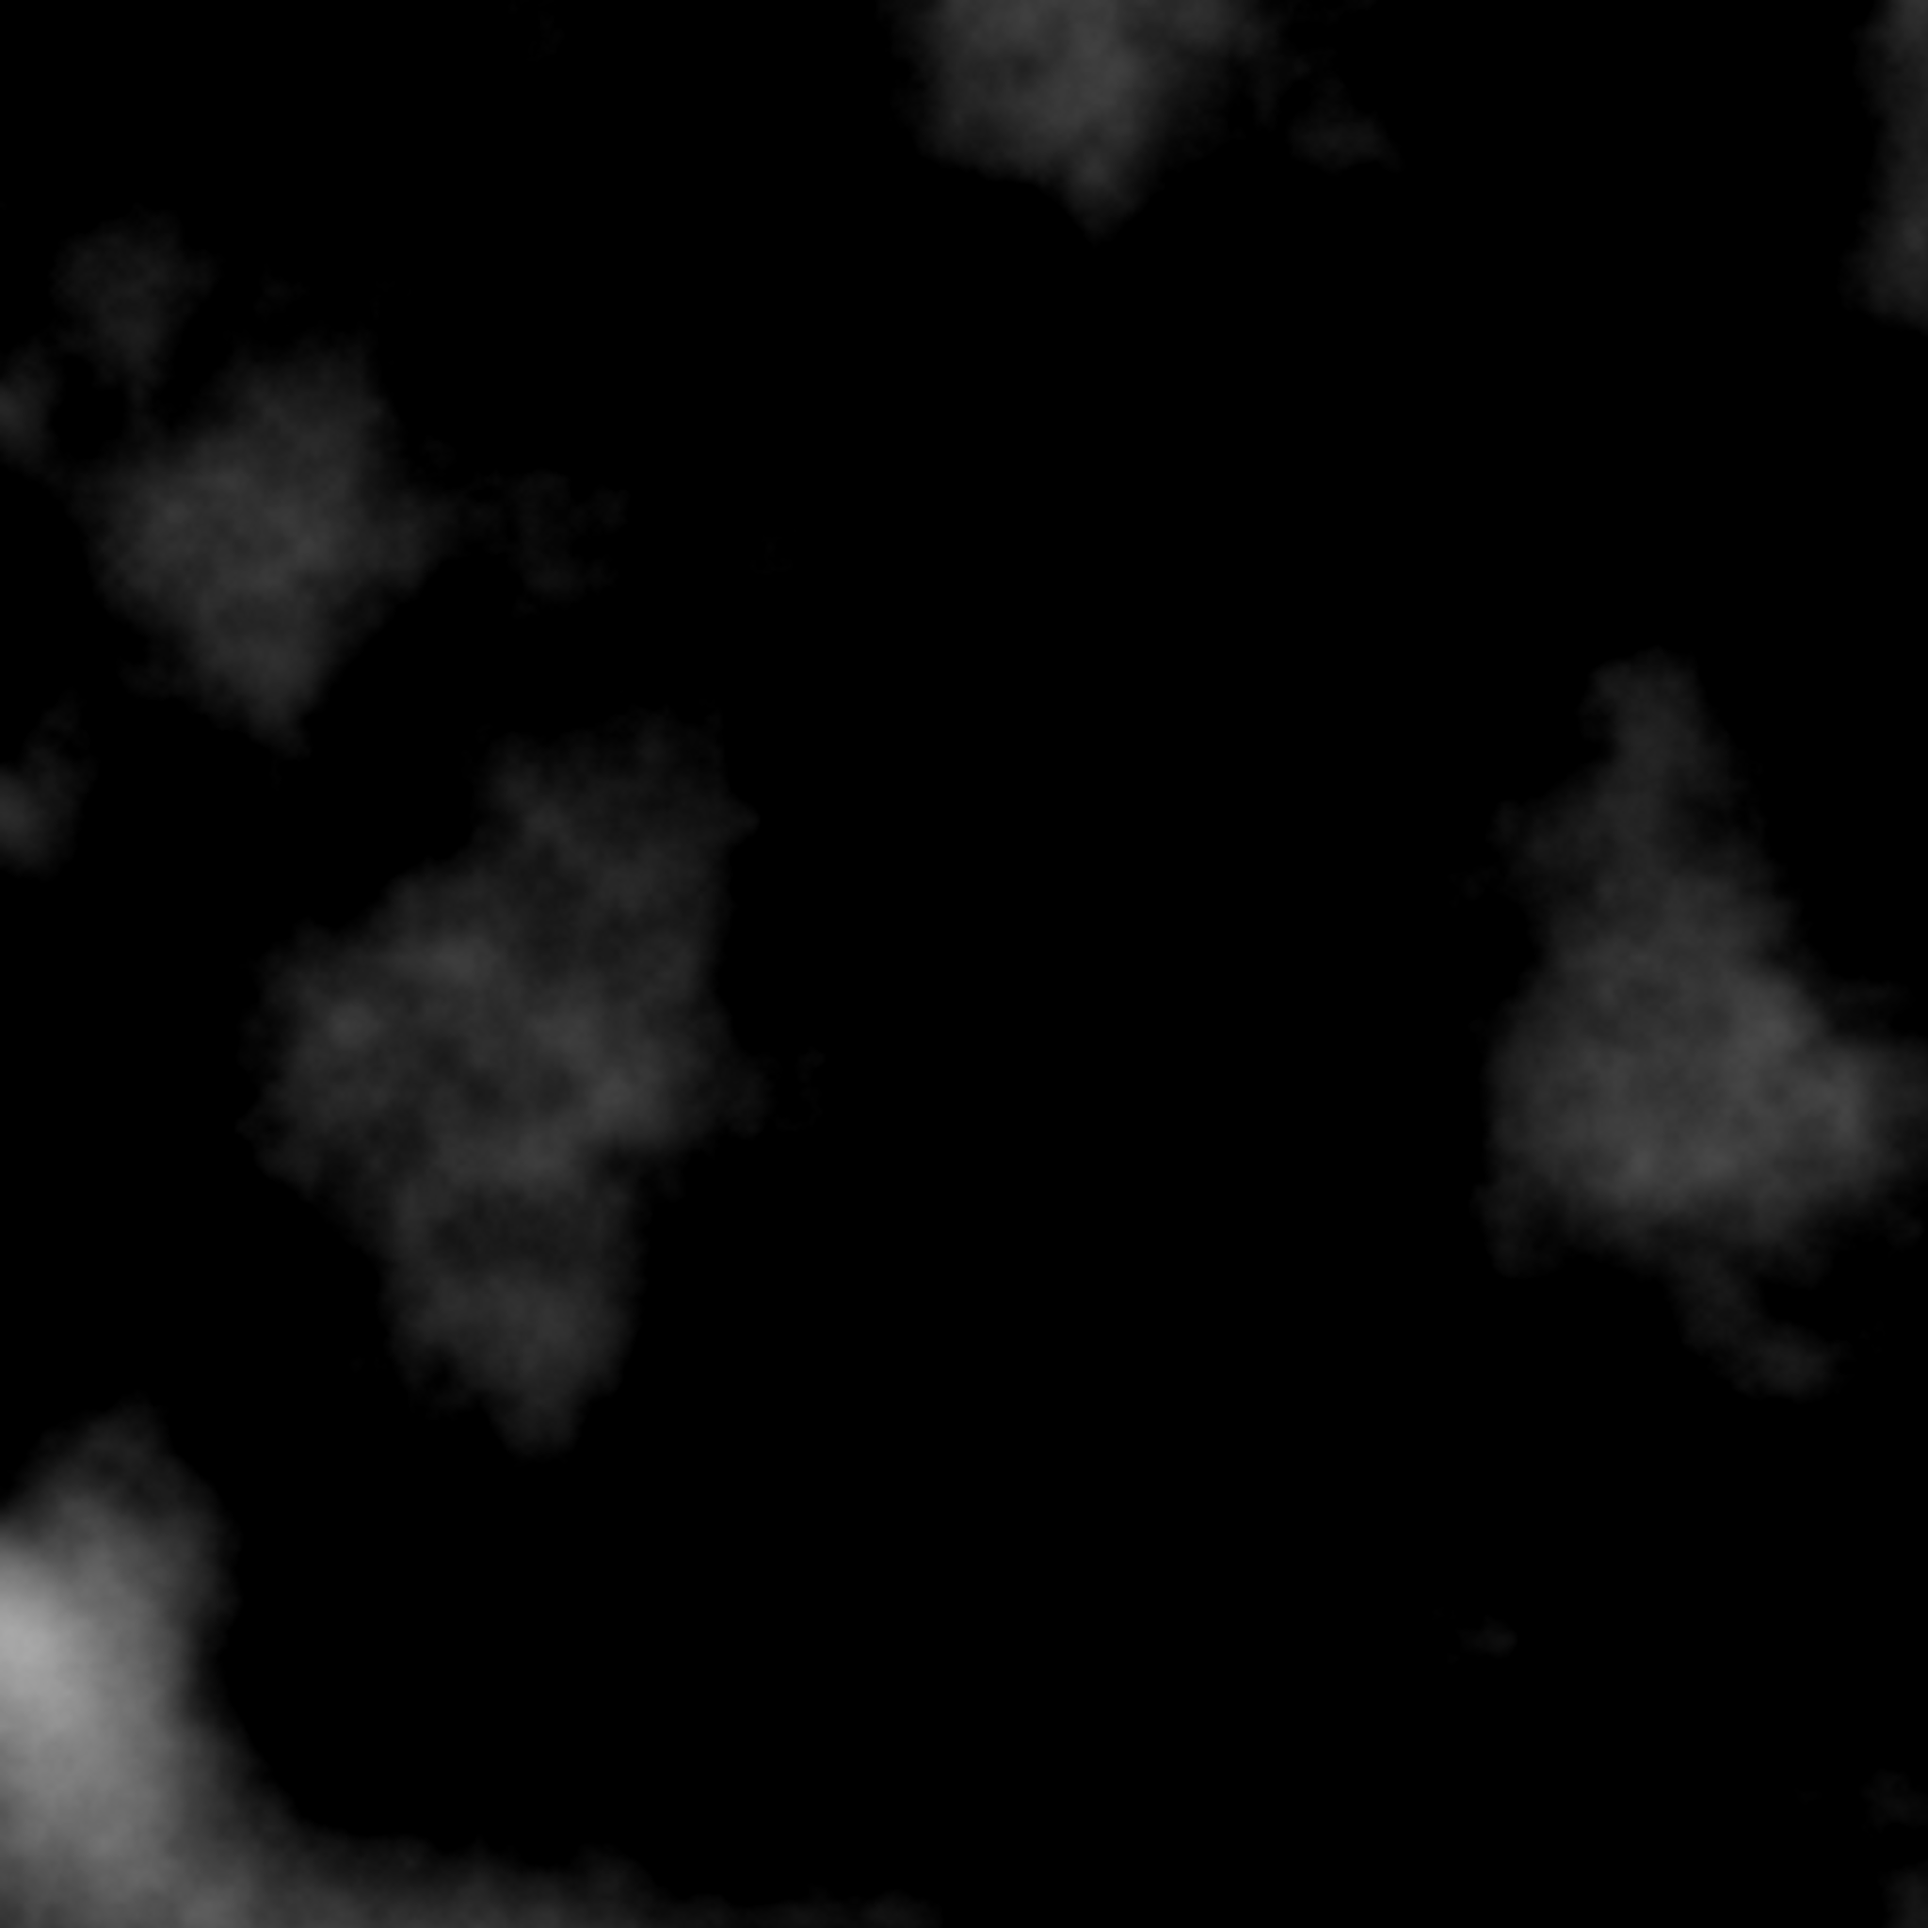
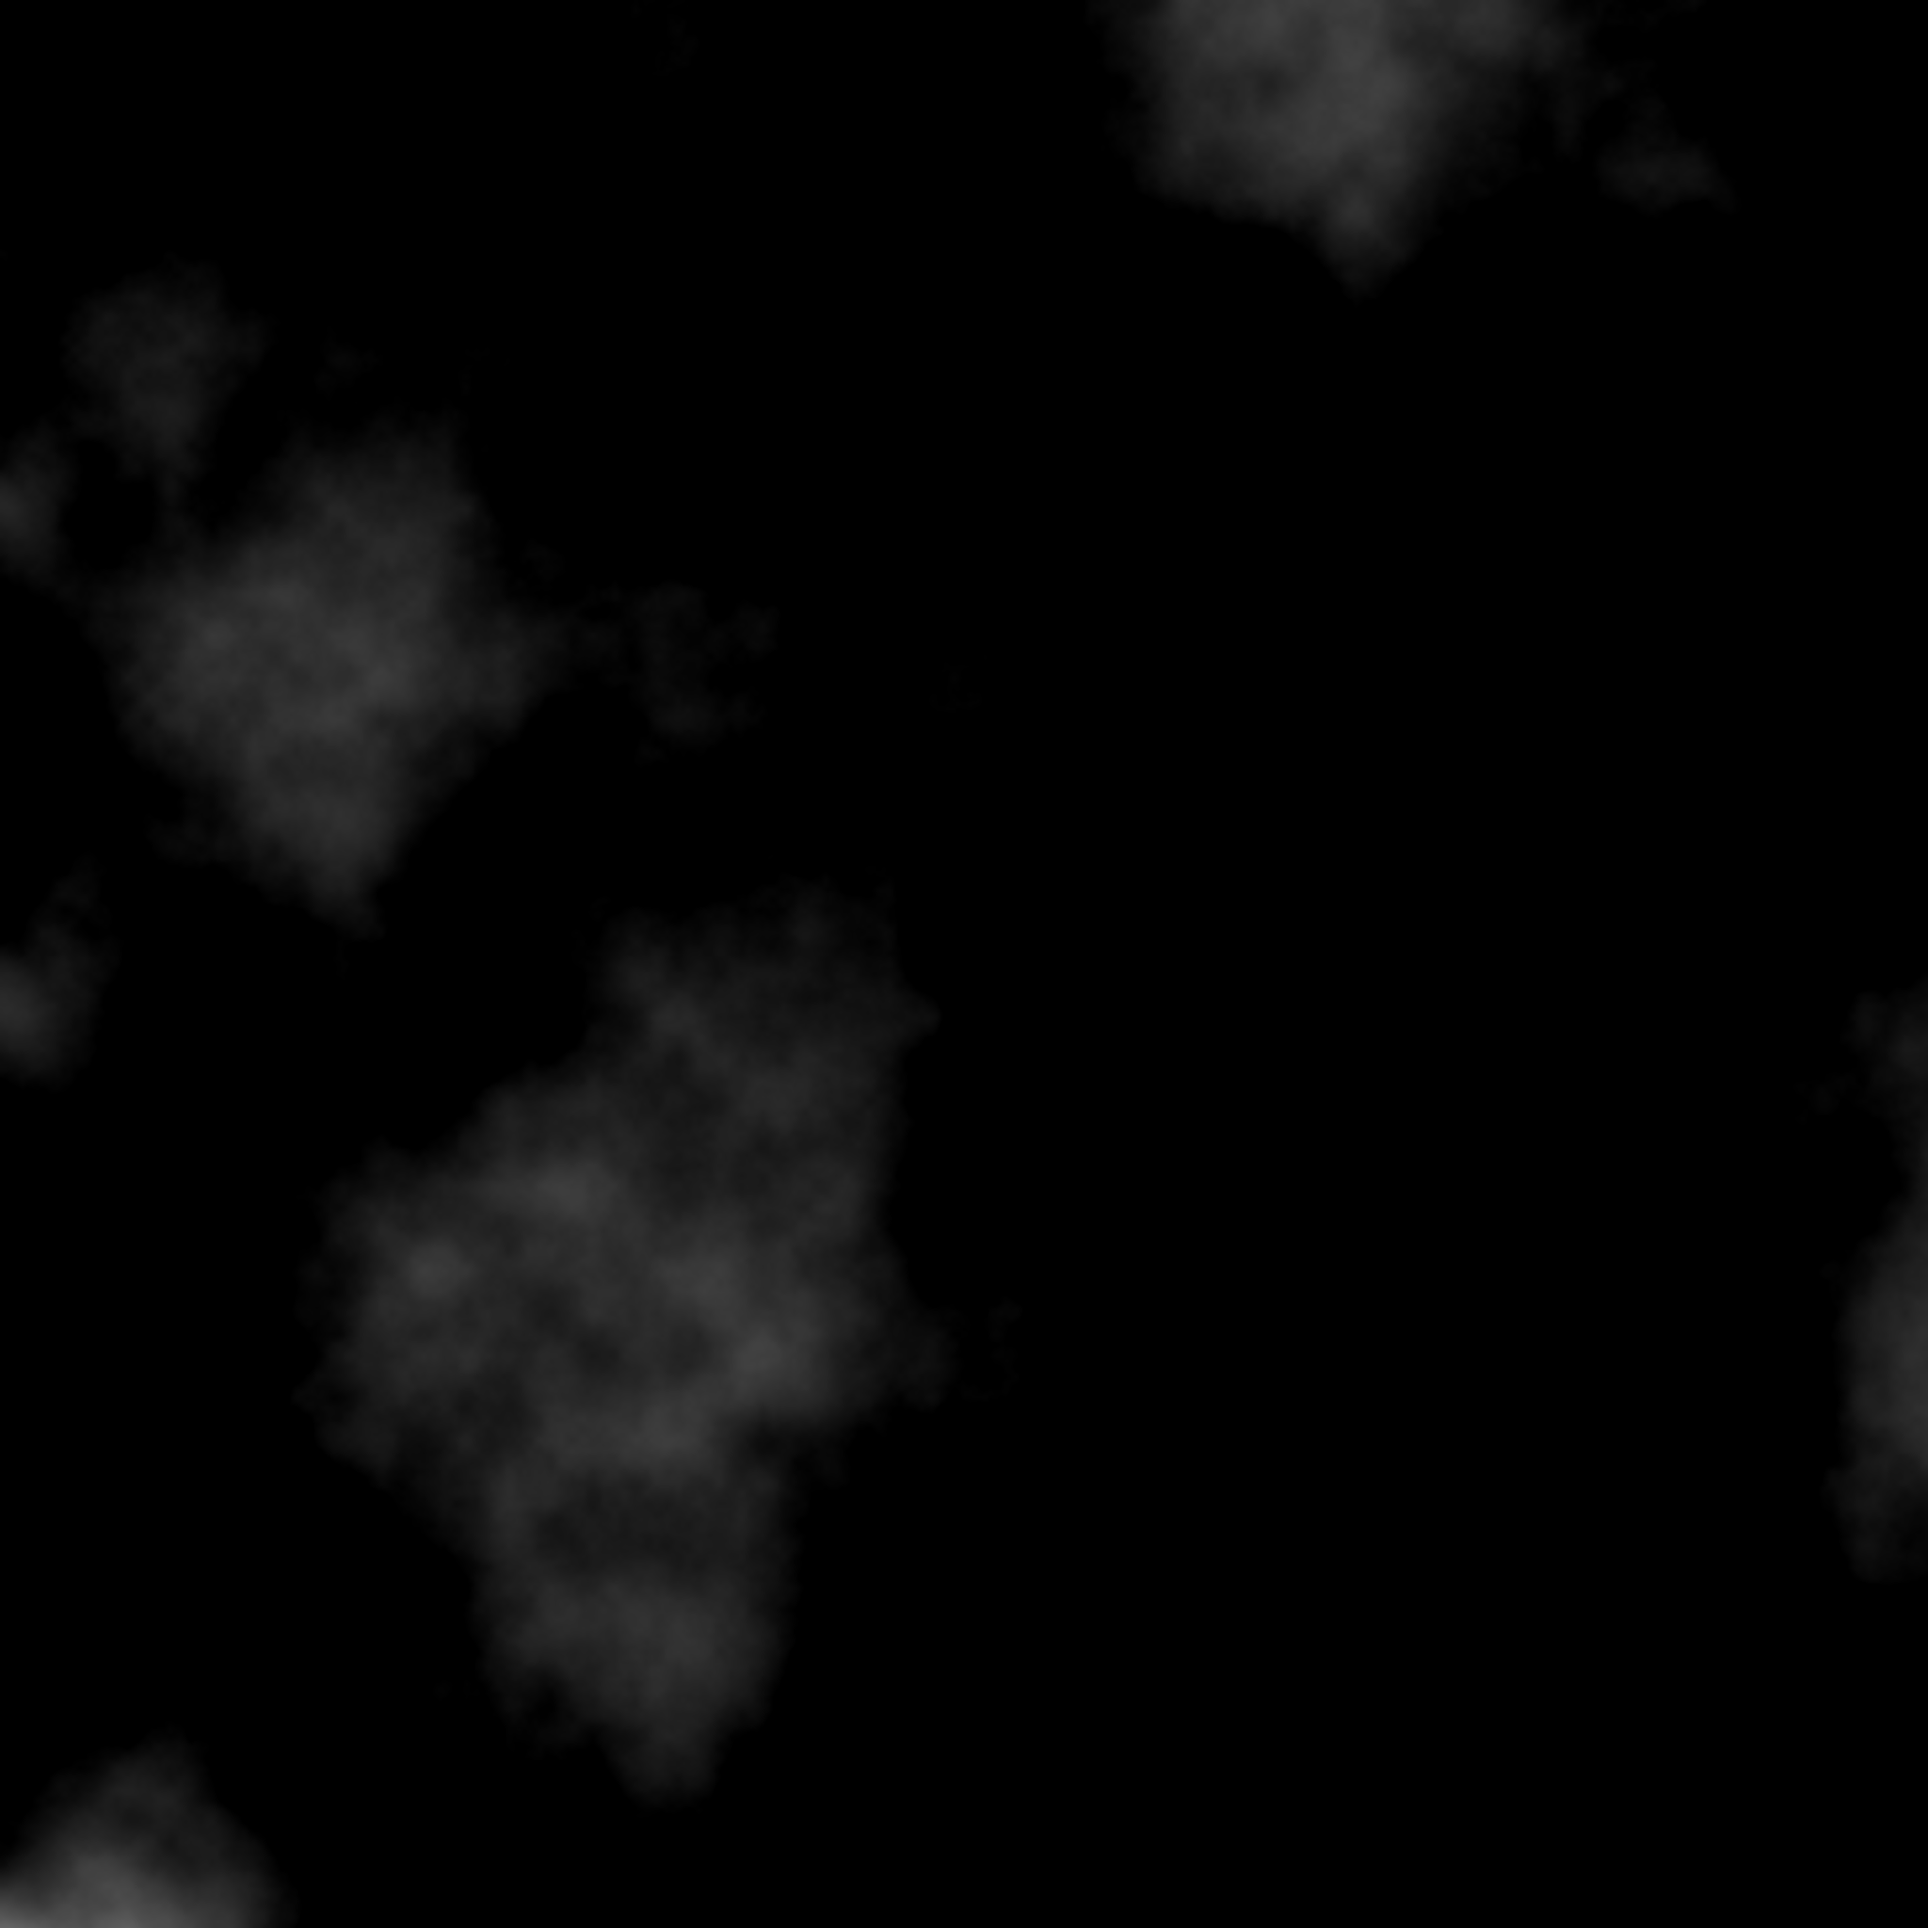
Size changes, skybox size changed

diff --git a/src/main/java/engineTester/MainGameLoop.java b/src/main/java/engineTester/MainGameLoop.java
@@ -34,7 +34,7 @@ import java.util.Random;
 
 public class MainGameLoop {
 
-    private static final int MAX_RENDER_DISTANCE = 4096;
+    private static final int MAX_RENDER_DISTANCE = 2048;
 
     public static void main(String[] args) throws LWJGLException {
         HeightMapGenerator.generateHeightMap();
@@ -155,14 +155,7 @@ public class MainGameLoop {
         WaterShader waterShader = new WaterShader();
         WaterRenderer waterRenderer = new WaterRenderer(loader, waterShader, renderer.getProjectionMatrix(), buffers);
         List<WaterTile> waters = new ArrayList<>();
-        WaterTile water = new WaterTile(2048, 2048, terrain.getHeightOfTerrain(0, 0) + 1f);
-//        WaterTile water2 = new WaterTile(195, 600, terrain.getHeightOfTerrain(75, 600) + 1);
-//        WaterTile water3 = new WaterTile(315, 600, terrain.getHeightOfTerrain(75, 600) + 1);
-//        WaterTile water4 = new WaterTile(435, 600, terrain.getHeightOfTerrain(75, 600) + 1);
-//        WaterTile water5 = new WaterTile(950, 820, 10);
-//        WaterTile water6 = new WaterTile(1070, 820, 10);
-//        WaterTile water7 = new WaterTile(950, 940, 10);
-//        WaterTile water8 = new WaterTile(1070, 940, 10);
+        WaterTile water = new WaterTile((float) 1024, (float) 1024, terrain.getHeightOfTerrain(0, 0) + 1f);
         waters.addAll(List.of(water));
 
         boolean sunMoveWest = true;

diff --git a/src/main/java/heightmap/HeightMapGenerator.java b/src/main/java/heightmap/HeightMapGenerator.java
@@ -10,7 +10,8 @@ import javax.imageio.ImageIO;
 public class HeightMapGenerator {
     public static void generateHeightMap() {
         Random random = new Random();
-        double seed = random.nextDouble(0.01);
+        double seed = random.nextDouble(0.003);
+//        double seed = 0.003;
         int width = 2048;
         int height = 2048;
         BufferedImage image = new BufferedImage(width, height, BufferedImage.TYPE_INT_RGB);

diff --git a/src/main/java/renderEngine/MasterRenderer.java b/src/main/java/renderEngine/MasterRenderer.java
@@ -83,7 +83,7 @@ public class MasterRenderer {
         terrainRenderer.render(terrains);
         terrainShader.stop();
 
-        // skyboxRenderer.render(camera, RED, GREEN, BLUE); // develop note: enable skybox again
+        skyboxRenderer.render(camera, RED, GREEN, BLUE); // develop note: enable skybox again
 
         terrains.clear();
         entities.clear();

diff --git a/src/main/java/skybox/SkyboxRenderer.java b/src/main/java/skybox/SkyboxRenderer.java
@@ -12,7 +12,7 @@ import renderEngine.Loader;
 
 public class SkyboxRenderer {
 
-    private static final float SIZE = 500f;
+    private static final float SIZE = 1000;
 
     private static final float[] VERTICES = {-SIZE, SIZE, -SIZE, -SIZE, -SIZE, -SIZE, SIZE, -SIZE, -SIZE, SIZE, -SIZE, -SIZE, SIZE, SIZE, -SIZE, -SIZE, SIZE, -SIZE,
 

diff --git a/src/main/java/terrains/Terrain.java b/src/main/java/terrains/Terrain.java
@@ -18,7 +18,7 @@ public class Terrain {
 
     // TODO: 21.03.2023 create better collision system with terrain
 
-    private static final float SIZE = 4096;
+    private static final float SIZE = 2048;
     private static final float MAX_HEIGHT = 40;
     private static final float MAX_PIXEL_COLOR = 256 * 256 * 256;
 

diff --git a/src/main/java/water/WaterTile.java b/src/main/java/water/WaterTile.java
@@ -2,7 +2,7 @@ package water;
 
 public class WaterTile {
 	
-	public static final float TILE_SIZE = 2048;
+	public static final float TILE_SIZE = 1024;
 	
 	private float height;
 	private float x,z;
